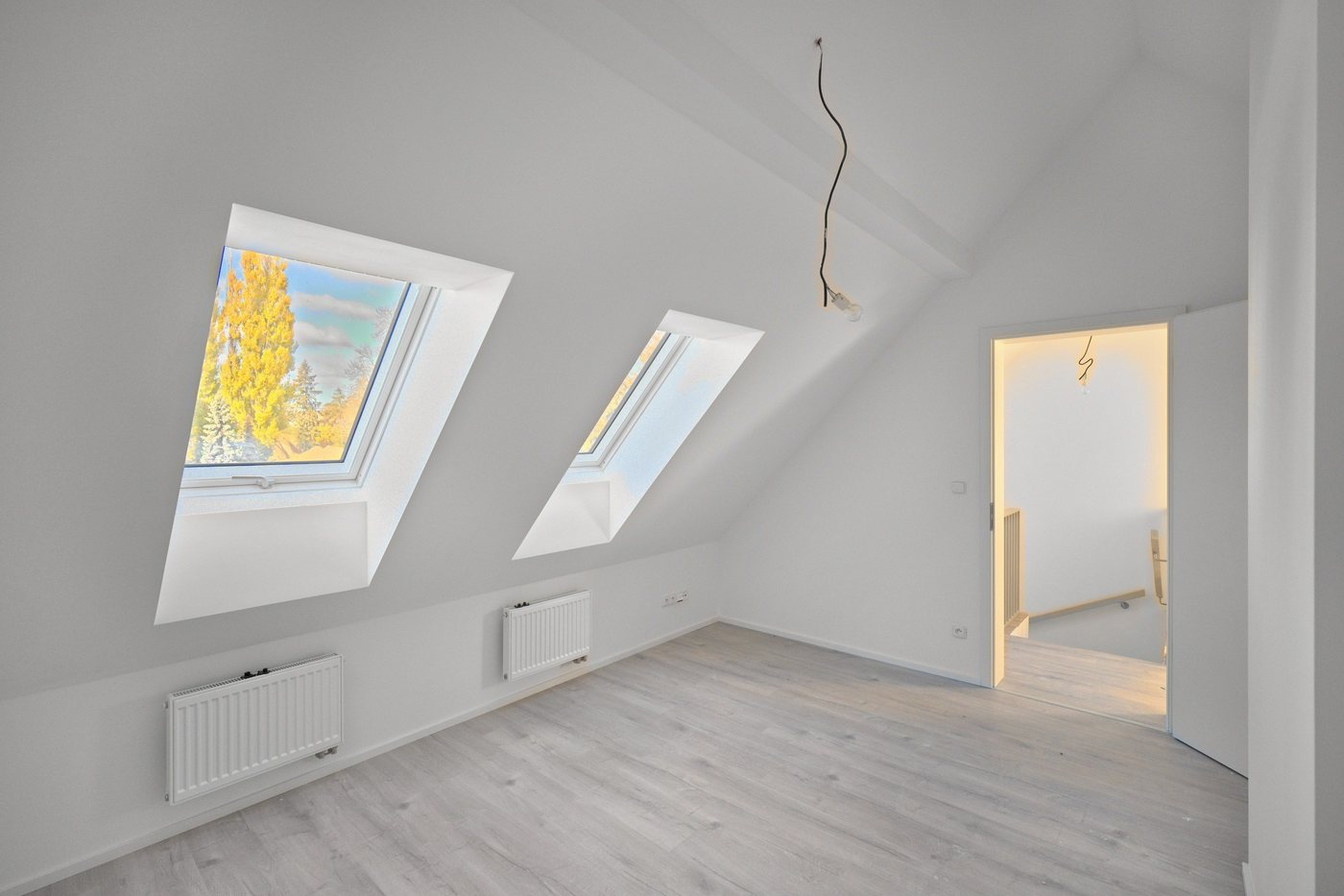
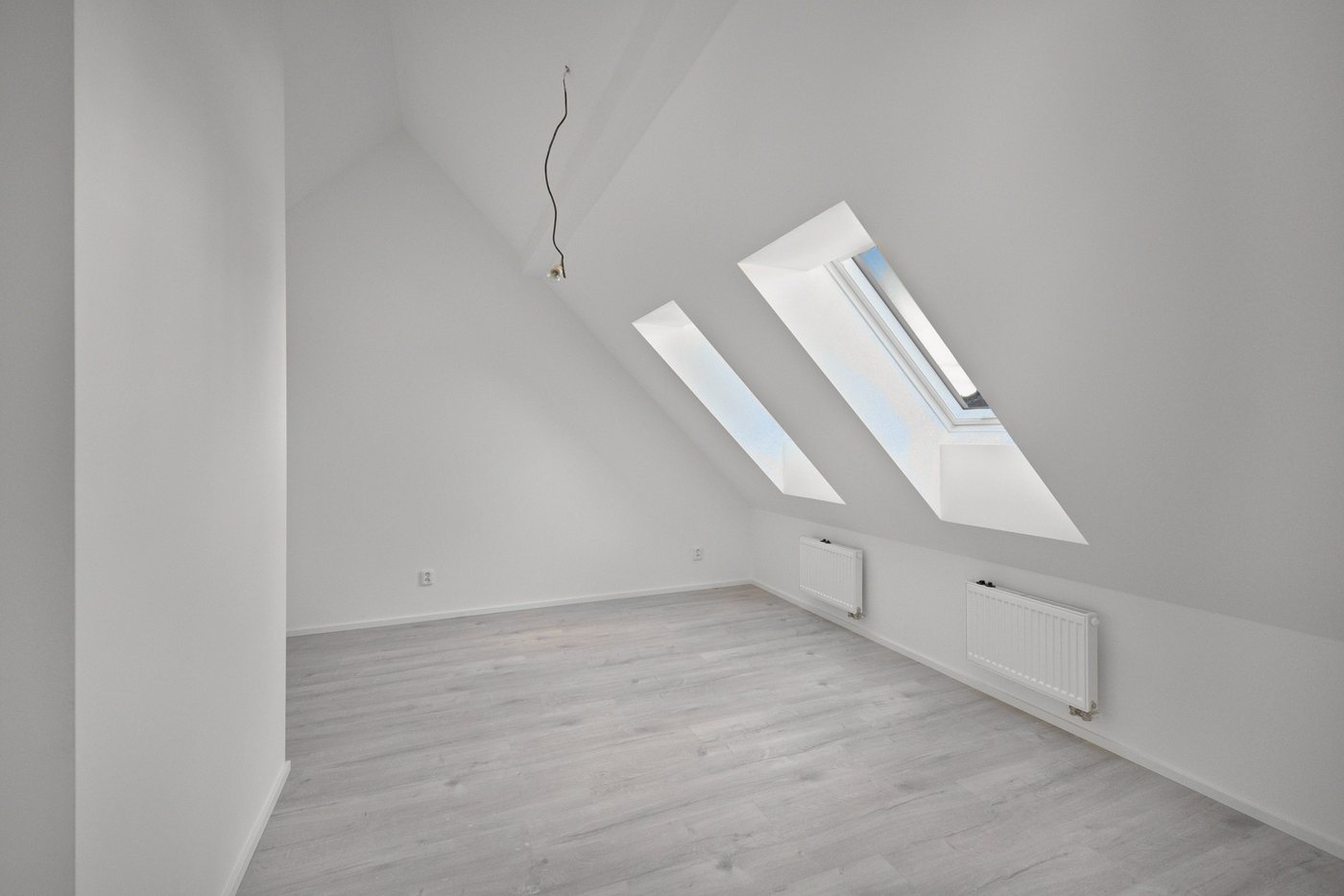
Průběh: pokoj se střešními okny bez žlutých artefaktů (P1182137)

diff --git a/prubeh/index.html b/prubeh/index.html
@@ -254,7 +254,7 @@
 
 <div class="pg">
 <div class="hero" style="height:520px">
-  <img src="img/hero_bb.jpg?v=202611021808" alt="Byty Borovského, Verde Slaný">
+  <img src="img/hero_bb.jpg?v=202611021814" alt="Byty Borovského, Verde Slaný">
   <div class="wrap">
     <div class="lockup"><svg class="glyph" viewBox="0 0 64 64"><g stroke="currentColor" stroke-width="5" stroke-linecap="round" fill="none"><line x1="32" y1="32" x2="17" y2="17"/><line x1="32" y1="32" x2="47" y2="17"/><line x1="32" y1="32" x2="17" y2="47"/><line x1="32" y1="32" x2="47" y2="47"/></g><g fill="none" stroke="currentColor" stroke-width="4.5"><circle cx="17" cy="17" r="8.5"/><circle cx="47" cy="17" r="8.5"/><circle cx="17" cy="47" r="8.5"/><circle cx="47" cy="47" r="8.5"/></g><rect x="25.5" y="25.5" width="13" height="13" rx="3.5" fill="currentColor"/></svg><div class="wstack"><span class="wtop">FRANTIŠEK</span><span class="wbot">DRON</span></div></div>
     <div class="eyebrow">Průběh postprodukce · stav k 2. 11. 2026 · Byty Borovského a Verde Slaný II</div>
@@ -267,19 +267,19 @@
 <section class="sec"><div class="wrap">
   <div class="eyebrow">Na čem pracujeme</div>
   <div class="done">
-    <figure><div class="trio"><img src="img/foto_obyvak.jpg?v=202611021808" alt="Obývák mezonetu"><img src="img/foto_ext.jpg?v=202611021808" alt="Byty Borovského"><img src="img/foto_dron.jpg?v=202611021808" alt="Slaný z dronu"></div>
+    <figure><div class="trio"><img src="img/foto_obyvak.jpg?v=202611021814" alt="Obývák mezonetu"><img src="img/foto_ext.jpg?v=202611021814" alt="Byty Borovského"><img src="img/foto_dron.jpg?v=202611021814" alt="Slaný z dronu"></div>
       <figcaption><span class="stav ceka">Rozpracováno</span><b>Fotky z natáčení</b>93 fotek bytu a okolí, každá složená z pěti expozic, v jednotné barvě. Teď je digitálně čistíme (kabely, záplaty na stropě, staveniště). Fotky z dronu nad stavbou doplníme.</figcaption></figure>
-    <figure><img src="img/so05_shora.jpg?v=202611021808" alt="Model domu SO 05 na mapě" style="aspect-ratio:16/9;object-position:center 60%">
+    <figure><img src="img/so05_shora.jpg?v=202611021814" alt="Model domu SO 05 na mapě" style="aspect-ratio:16/9;object-position:center 60%">
       <figcaption><span class="stav ceka">Rozpracováno</span><b>Dům vyroste: model druhé etapy</b>Dům SO 05 jsme postavili ve 3D podle projektové dokumentace a zasadili do mapy. Obrys sedí na parcelu v katastru. Až zpracujeme záběry z dronu, dům v nich vyroste patro po patru.</figcaption></figure>
-    <figure><img src="img/zakres_etapy.jpg?v=202611021808" alt="Vyznačení dalších etap">
+    <figure><img src="img/zakres_etapy.jpg?v=202611021814" alt="Vyznačení dalších etap">
       <figcaption><span class="stav ceka">Rozpracováno · ke schválení</span><b>Další etapy v jednom záběru</b>Domy, které teprve budou, decentně vyznačíme. Údaje na popiscích potvrď prosím v otázkách.</figcaption></figure>
-    <figure><div class="pair"><img src="img/grafika_titulek.jpg?v=202611021808" alt="Titulek Byty Borovského"><img src="img/grafika_karta.jpg?v=202611021808" alt="Závěrečná karta Verde Slaný"></div>
+    <figure><div class="pair"><img src="img/grafika_titulek.jpg?v=202611021814" alt="Titulek Byty Borovského"><img src="img/grafika_karta.jpg?v=202611021814" alt="Závěrečná karta Verde Slaný"></div>
       <figcaption><span class="stav ceka">Rozpracováno · ke schválení</span><b>Grafika podle vašeho logomanuálu</b>Titulky, popisky místností i závěrečná karta v barvách a skladbě loga Verde Slaný. U Bytů Borovského s lososovým akcentem z jejich loga.</figcaption></figure>
-    <figure><img src="img/slany_vyznaceni.jpg?v=202611021808" alt="Slaný z dronu s vyznačením Verde"><figcaption><span class="stav ceka">Rozpracováno</span>
+    <figure><img src="img/slany_vyznaceni.jpg?v=202611021814" alt="Slaný z dronu s vyznačením Verde"><figcaption><span class="stav ceka">Rozpracováno</span>
   <b>Slaný shora s vyznačením Verde</b>Verde, náměstí, kostel, obchody, autobusové nádraží, Kumpánova zahrada a koupaliště v jednom záběru z dronu.</figcaption></figure>
-    <figure class="wide"><div class="viz5"><div class="vz"><img src="img/viz/VIZ01_obyvak.jpg?v=202611021808" alt="Obývák s kuchyní, vizualizace"><span>Vizualizace</span></div><div class="vz"><img src="img/viz/VIZ02_kuchyn.jpg?v=202611021808" alt="Kuchyňský kout, vizualizace"><span>Vizualizace</span></div><div class="vz"><img src="img/viz/VIZ03_loznice.jpg?v=202611021808" alt="Ložnice, vizualizace"><span>Vizualizace</span></div><div class="vz"><img src="img/viz/VIZ04_detsky.jpg?v=202611021808" alt="Dětský pokoj, vizualizace"><span>Vizualizace</span></div><div class="vz"><img src="img/viz/VIZ05_podkrovi.jpg?v=202611021808" alt="Ložnice pod střechou, vizualizace"><span>Vizualizace</span></div></div>
+    <figure class="wide"><div class="viz5"><div class="vz"><img src="img/viz/VIZ01_obyvak.jpg?v=202611021814" alt="Obývák s kuchyní, vizualizace"><span>Vizualizace</span></div><div class="vz"><img src="img/viz/VIZ02_kuchyn.jpg?v=202611021814" alt="Kuchyňský kout, vizualizace"><span>Vizualizace</span></div><div class="vz"><img src="img/viz/VIZ03_loznice.jpg?v=202611021814" alt="Ložnice, vizualizace"><span>Vizualizace</span></div><div class="vz"><img src="img/viz/VIZ04_detsky.jpg?v=202611021814" alt="Dětský pokoj, vizualizace"><span>Vizualizace</span></div><div class="vz"><img src="img/viz/VIZ05_podkrovi.jpg?v=202611021814" alt="Ložnice pod střechou, vizualizace"><span>Vizualizace</span></div></div>
       <figcaption><span class="stav ceka">Rozpracováno · ke schválení</span><b>Zařízený mezonet: vizualizace</b>Jak může prázdný mezonet vypadat zařízený: obývák s kuchyní, ložnice, dětský pokoj a ložnice pod střechou. Stavba je přesně podle fotek, mění se jen nábytek. Ve filmu i v inzerátu vždy se štítkem „Vizualizace“.</figcaption></figure>
-    <figure><img src="img/grafika_popisek.jpg?v=202611021808" alt="Popisek místnosti v mezonetu">
+    <figure><img src="img/grafika_popisek.jpg?v=202611021814" alt="Popisek místnosti v mezonetu">
       <figcaption><span class="stav ceka">Rozpracováno</span><b>Film o mezonetu</b>Skládáme videoprohlídku mezonetu podle karty bytu. Popisky místností budou jako na obrázku. 3D prohlídka mezonetu je už hotová, najdeš ji níže.</figcaption></figure>
   </div>
 </div></section>
@@ -291,10 +291,10 @@
     <figure class="wide"><div class="m3d" id="m3d"><iframe src="model/index.html" title="3D model domu SO 05" loading="lazy" allow="fullscreen" allowfullscreen></iframe><button class="m3d-x" id="m3dx" type="button" aria-label="Zavřít celou obrazovku">✕ Zavřít</button></div>
       <figcaption><span class="stav ceka">Rozpracováno · ke schválení</span><b>3D model domu SO 05</b>Model domu podle projektové dokumentace. Táhnutím ho otočíš, kolečkem nebo dvěma prsty přiblížíš.
         <span class="btns"><button class="btn" id="m3dfull" type="button">Na celou obrazovku</button></span></figcaption></figure>
-    <figure><img src="img/tour_mezonet.jpg?v=202611021808" alt="Náhled 3D prohlídky mezonetu">
+    <figure><img src="img/tour_mezonet.jpg?v=202611021814" alt="Náhled 3D prohlídky mezonetu">
       <figcaption><span class="stav ceka">Rozpracováno</span><b>Mezonet v Bytech Borovského</b>Zatím není finální – jen pro představu, jak to zhruba bude vypadat. 3D prohlídka mezonetu podle fotek z natáčení a karty bytu. Zařízení je ilustrační vizualizace. Přepínačem Prázdný / Zařízený se přepíná mezi prázdným a zařízeným bytem.
         <span class="btns"><a class="btn" href="prohlidka-mezonet/" target="_blank" rel="noopener">Projít ve 3D</a></span></figcaption></figure>
-    <figure><img src="img/tour_byt.jpg?v=202611021808" alt="Náhled 3D prohlídky typového bytu">
+    <figure><img src="img/tour_byt.jpg?v=202611021814" alt="Náhled 3D prohlídky typového bytu">
       <figcaption><span class="stav ceka">Rozpracováno</span><b>Typový byt 3+kk ve druhé etapě</b>Zatím není finální – jen pro představu, jak to zhruba bude vypadat. Byt B.3.3, nejčastější typ v domě (8 bytů), asi 65 m² podle projektové dokumentace. Dům se staví, model je podle výkresů. Zařízení je ilustrační vizualizace, přepínač Prázdný / Zařízený je stejný.
         <span class="btns"><a class="btn" href="prohlidka-byt/" target="_blank" rel="noopener">Projít ve 3D</a></span></figcaption></figure>
   </div>
@@ -306,9 +306,9 @@
   <div class="eyebrow">Dům v okolí: pár vizualizací</div>
   <p class="lead">Pro představu, jak bude dům druhé etapy vypadat v okolí. Vycházejí z 3D modelu výše, postaveného podle projektové dokumentace a areálové situace z 30. 10.; zeleň a okolí jsou ilustrační. Hlavní ke schválení je 3D model. Ve filmu budou vždy se štítkem „Vizualizace“.</p>
   <div class="done">
-    <figure class="wide"><div class="pp" style="--p:50%"><img src="img/viz_d3.jpg?v=202611021808" alt="Od jihozápadu z dronu, vizualizace"><div class="pp-pred"><img src="img/pred_d3.jpg?v=202611021808" alt="Od jihozápadu z dronu, stav stavby 29. 10."></div><input type="range" min="0" max="100" value="50" aria-label="Posuvník: stav stavby a vizualizace"><div class="pp-h"></div><span class="lab l">Stav 29. 10.</span><span class="lab r">Vizualizace</span></div>
+    <figure class="wide"><div class="pp" style="--p:50%"><img src="img/viz_d3.jpg?v=202611021814" alt="Od jihozápadu z dronu, vizualizace"><div class="pp-pred"><img src="img/pred_d3.jpg?v=202611021814" alt="Od jihozápadu z dronu, stav stavby 29. 10."></div><input type="range" min="0" max="100" value="50" aria-label="Posuvník: stav stavby a vizualizace"><div class="pp-h"></div><span class="lab l">Stav 29. 10.</span><span class="lab r">Vizualizace</span></div>
       <figcaption><span class="stav ceka">Rozpracováno · pro představu</span><b>Od jihozápadu z dronu: dnes a po dokončení</b>Posuvníkem porovnáš stav stavby z 29. 10. s vizualizací ze stejného místa.</figcaption></figure>
-    <figure class="wide"><div class="ms5"><div class="vz zm"><img src="img/multishot/ms_4.jpg?v=202611021808" alt="Od jihovýchodu – svah se schody, vizualizace"><span class="lab">Od jihovýchodu – svah se schody</span></div><div class="vz zm"><img src="img/multishot/ms_3.jpg?v=202611021808" alt="Od západu z trávníku, vizualizace"><span class="lab">Od západu z trávníku</span></div><div class="vz zm"><img src="img/multishot/ms_1.jpg?v=202611021808" alt="Od západu – ulice podél domu, vizualizace"><span class="lab">Od západu – ulice podél domu</span></div></div>
+    <figure class="wide"><div class="ms5"><div class="vz zm"><img src="img/multishot/ms_4.jpg?v=202611021814" alt="Od jihovýchodu – svah se schody, vizualizace"><span class="lab">Od jihovýchodu – svah se schody</span></div><div class="vz zm"><img src="img/multishot/ms_3.jpg?v=202611021814" alt="Od západu z trávníku, vizualizace"><span class="lab">Od západu z trávníku</span></div><div class="vz zm"><img src="img/multishot/ms_1.jpg?v=202611021814" alt="Od západu – ulice podél domu, vizualizace"><span class="lab">Od západu – ulice podél domu</span></div></div>
       <figcaption><span class="stav ceka">Rozpracováno · pro představu</span><b>Další pohledy na SO 05</b>Klikem obrázek zvětšíš.</figcaption></figure>
   </div>
 </div></section>
@@ -319,7 +319,7 @@
   <div class="eyebrow">Fotky z dronu</div>
   <p class="lead">Výběr z fotek z dronu z 29. 10. v jednotných barvách. Celou sadu pošleme po finálních úpravách.</p>
   <div class="done">
-    <figure class="wide"><div class="dron6"><div class="vz zm"><img src="img/dron/dron_1.jpg?v=202611021808" alt="Areál se stavbou druhé etapy"><span class="lab">Areál se stavbou druhé etapy</span></div><div class="vz zm"><img src="img/dron/dron_2.jpg?v=202611021808" alt="Verde I a stavba, v pozadí Slaný"><span class="lab">Verde I a stavba, v pozadí Slaný</span></div><div class="vz zm"><img src="img/dron/dron_3.jpg?v=202611021808" alt="Kumpánova zahrada a město"><span class="lab">Kumpánova zahrada a město</span></div><div class="vz zm"><img src="img/dron/dron_4.jpg?v=202611021808" alt="Kostel a centrum"><span class="lab">Kostel a centrum</span></div><div class="vz zm"><img src="img/dron/dron_5.jpg?v=202611021808" alt="Masarykovo náměstí"><span class="lab">Masarykovo náměstí</span></div><div class="vz zm"><img src="img/dron/dron_6.jpg?v=202611021808" alt="Verde I s topoly"><span class="lab">Verde I s topoly</span></div><div class="vz zm"><img src="img/dron/dron_7.jpg?v=202611021808" alt="Panorama Slaného"><span class="lab">Panorama Slaného</span></div><div class="vz zm"><img src="img/dron/dron_8.jpg?v=202611021808" alt="Kostel, nádraží a vinice"><span class="lab">Kostel, nádraží a vinice</span></div><div class="vz zm"><img src="img/dron/dron_9.jpg?v=202611021808" alt="Verde I a zámek v pozadí"><span class="lab">Verde I a zámek v pozadí</span></div></div>
+    <figure class="wide"><div class="dron6"><div class="vz zm"><img src="img/dron/dron_1.jpg?v=202611021814" alt="Areál se stavbou druhé etapy"><span class="lab">Areál se stavbou druhé etapy</span></div><div class="vz zm"><img src="img/dron/dron_2.jpg?v=202611021814" alt="Verde I a stavba, v pozadí Slaný"><span class="lab">Verde I a stavba, v pozadí Slaný</span></div><div class="vz zm"><img src="img/dron/dron_3.jpg?v=202611021814" alt="Kumpánova zahrada a město"><span class="lab">Kumpánova zahrada a město</span></div><div class="vz zm"><img src="img/dron/dron_4.jpg?v=202611021814" alt="Kostel a centrum"><span class="lab">Kostel a centrum</span></div><div class="vz zm"><img src="img/dron/dron_5.jpg?v=202611021814" alt="Masarykovo náměstí"><span class="lab">Masarykovo náměstí</span></div><div class="vz zm"><img src="img/dron/dron_6.jpg?v=202611021814" alt="Verde I s topoly"><span class="lab">Verde I s topoly</span></div><div class="vz zm"><img src="img/dron/dron_7.jpg?v=202611021814" alt="Panorama Slaného"><span class="lab">Panorama Slaného</span></div><div class="vz zm"><img src="img/dron/dron_8.jpg?v=202611021814" alt="Kostel, nádraží a vinice"><span class="lab">Kostel, nádraží a vinice</span></div><div class="vz zm"><img src="img/dron/dron_9.jpg?v=202611021814" alt="Verde I a zámek v pozadí"><span class="lab">Verde I a zámek v pozadí</span></div></div>
       <figcaption><span class="stav ceka">Rozpracováno · ke schválení</span><b>Areál, Verde I a Slaný z dronu</b>Devět ze 74 fotek z dronu. Klikem obrázek zvětšíš.</figcaption></figure>
   </div>
 </div></section>
@@ -328,7 +328,7 @@
   <div class="eyebrow">Fotky z natáčení: byt a okolí</div>
   <p class="lead">Výběr z fotek z 29. 10. – mezonet v Bytech Borovského a domy kolem, ze země i z dronu. Fotky bytu jsou složené z pěti expozic. Digitální úklid (kabely, záplaty na stropě, staveniště) ještě probíhá.</p>
   <div class="done">
-    <figure class="wide"><div class="foto8"><div class="vz zm"><img src="img/foto/fotky_byty_1.jpg?v=202611021808" alt="Obývák s kamny"><span class="lab">Obývák s kamny</span></div><div class="vz zm"><img src="img/foto/fotky_byty_2.jpg?v=202611021808" alt="Pokoj se střešními okny"><span class="lab">Pokoj se střešními okny</span></div><div class="vz zm"><img src="img/foto/fotky_byty_3.jpg?v=202611021808" alt="Pokoj s oknem do zeleně"><span class="lab">Pokoj s oknem do zeleně</span></div><div class="vz zm"><img src="img/foto/fotky_byty_4.jpg?v=202611021808" alt="Koupelna s vanou"><span class="lab">Koupelna s vanou</span></div><div class="vz zm"><img src="img/foto/fotky_byty_5.jpg?v=202611021808" alt="Terasa s výhledem"><span class="lab">Terasa s výhledem</span></div><div class="vz zm"><img src="img/foto/fotky_zeme_1.jpg?v=202611021808" alt="Štít a stromy"><span class="lab">Štít a stromy</span></div><div class="vz zm"><img src="img/foto/fotky_zeme_2.jpg?v=202611021808" alt="Od ulice"><span class="lab">Od ulice</span></div><div class="vz zm"><img src="img/foto/fotky_zeme_3.jpg?v=202611021808" alt="Z dronu"><span class="lab">Z dronu</span></div><div class="vz zm"><img src="img/foto/fotky_zeme_4.jpg?v=202611021808" alt="Z dronu, v zeleni"><span class="lab">Z dronu, v zeleni</span></div><div class="vz zm"><img src="img/foto/fotky_zeme_5.jpg?v=202611021808" alt="Z dronu, za nimi Slaný"><span class="lab">Z dronu, za nimi Slaný</span></div></div>
+    <figure class="wide"><div class="foto8"><div class="vz zm"><img src="img/foto/fotky_byty_1.jpg?v=202611021814" alt="Obývák s kamny"><span class="lab">Obývák s kamny</span></div><div class="vz zm"><img src="img/foto/fotky_byty_2.jpg?v=202611021814" alt="Pokoj se střešními okny"><span class="lab">Pokoj se střešními okny</span></div><div class="vz zm"><img src="img/foto/fotky_byty_3.jpg?v=202611021814" alt="Pokoj s oknem do zeleně"><span class="lab">Pokoj s oknem do zeleně</span></div><div class="vz zm"><img src="img/foto/fotky_byty_4.jpg?v=202611021814" alt="Koupelna s vanou"><span class="lab">Koupelna s vanou</span></div><div class="vz zm"><img src="img/foto/fotky_byty_5.jpg?v=202611021814" alt="Terasa s výhledem"><span class="lab">Terasa s výhledem</span></div><div class="vz zm"><img src="img/foto/fotky_zeme_1.jpg?v=202611021814" alt="Štít a stromy"><span class="lab">Štít a stromy</span></div><div class="vz zm"><img src="img/foto/fotky_zeme_2.jpg?v=202611021814" alt="Od ulice"><span class="lab">Od ulice</span></div><div class="vz zm"><img src="img/foto/fotky_zeme_3.jpg?v=202611021814" alt="Z dronu"><span class="lab">Z dronu</span></div><div class="vz zm"><img src="img/foto/fotky_zeme_4.jpg?v=202611021814" alt="Z dronu, v zeleni"><span class="lab">Z dronu, v zeleni</span></div><div class="vz zm"><img src="img/foto/fotky_zeme_5.jpg?v=202611021814" alt="Z dronu, za nimi Slaný"><span class="lab">Z dronu, za nimi Slaný</span></div></div>
       <figcaption><span class="stav ceka">Rozpracováno · ke schválení</span><b>Mezonet a Byty Borovského</b>Nahoře byt, dole domy ze země a z dronu. Klikem obrázek zvětšíš.</figcaption></figure>
   </div>
 </div></section>
@@ -337,7 +337,7 @@
   <div class="eyebrow">Potřebujeme od tebe</div>
   <p class="lead">Vyplň, co víš, a klikni na Odeslat. Odeslat můžeš i víckrát, odeslané odpovědi uvidíš dole.</p>
   <form class="form" id="fm" onsubmit="return false">
-    <div class="q need" data-q="povoleni" data-label="Další etapy: stavební povolení a termíny"><h4>Další etapy: stavební povolení a termíny</h4><p class="h">Na popisky SO 01 (dům do U), SO 03 a SO 04 bychom rádi napsali „stavební povolení vydáno“. Jak to je? A chcete tam i termíny nebo jiné názvy (třeba 3. / 4. / 5. etapa)?</p><div class="opts"><label><input type="radio" name="povoleni" value="Vydané a pravomocné u všech tří"><span>Vydané a pravomocné u všech tří</span></label><label><input type="radio" name="povoleni" value="Vydané, zatím ne pravomocné"><span>Vydané, zatím ne pravomocné</span></label><label><input type="radio" name="povoleni" value="U některých ještě ne"><span>U některých ještě ne</span></label><label><input type="radio" name="povoleni" value="Zatím ne"><span>Zatím ne</span></label></div><textarea id="n_povoleni" data-note="povoleni" placeholder="Termíny, názvy, upřesnění"></textarea></div><div class="q" data-q="udaje" data-label="Údaje ve filmech"><h4>Údaje ve filmech</h4><p class="h">Druhá etapa: 48 bytů, kolaudace 2Q 2028. Byty Borovského: zkolaudované, předání koncem roku. Sedí to a smíme to tak uvést?</p><div class="opts"><label><input type="radio" name="udaje" value="Sedí"><span>Sedí</span></label><label><input type="radio" name="udaje" value="Upravit"><span>Upravit</span></label></div><textarea id="n_udaje" data-note="udaje" placeholder="Co upravit"></textarea></div><div class="q" data-q="vysky" data-label="Světlá výška v mezonetu"><h4>Světlá výška v mezonetu</h4><p class="h">Pro 3D prohlídku: jaká je světlá výška dole (chodba, ložnice) a v jaké výšce je podlaha horního patra? Z fotek a karty bytu nám vychází dole 2,58–2,69 m a podlaha horního patra 2,95 m.</p><div class="opts"><label><input type="radio" name="vysky" value="Sedí to"><span>Sedí to</span></label><label><input type="radio" name="vysky" value="Pošlu řez e-mailem"><span>Pošlu řez e-mailem</span></label><label><input type="radio" name="vysky" value="Napíšu sem"><span>Napíšu sem</span></label></div><textarea id="n_vysky" data-note="vysky" placeholder="Např. dole 2,60 m, podlaha horního patra 2,95 m"></textarea></div><div class="q" data-q="hudba" data-label="Hudba k filmům"><h4>Hudba k filmům</h4><p class="h">Tři ukázky (30 s), všechny instrumentální. Vyber, která se ti k filmům líbí nejvíc.</p><div class="hud"><label class="opts"><input type="radio" name="hudba" value="A"><span>A</span></label><span class="hn">moderní, klidná, prémiová</span><audio controls preload="none" src="hudba/A.mp3?v=202611021808"></audio></div><div class="hud"><label class="opts"><input type="radio" name="hudba" value="B"><span>B</span></label><span class="hn">klavír s výraznějším basem</span><audio controls preload="none" src="hudba/B.mp3?v=202611021808"></audio></div><div class="hud"><label class="opts"><input type="radio" name="hudba" value="C"><span>C</span></label><span class="hn">uvolněná, jazzová</span><audio controls preload="none" src="hudba/C.mp3?v=202611021808"></audio></div><textarea id="n_hudba" data-note="hudba" placeholder="Poznámka k hudbě (nepovinné)"></textarea></div><div class="q need" data-q="kontakt" data-label="Kontakt na závěrečnou kartu"><h4>Kontakt na závěrečnou kartu</h4><p class="h">Web, telefon a jméno na konec filmů.</p><textarea id="n_kontakt" data-note="kontakt" placeholder="Např. verdeslany.cz · +420 … · jméno"></textarea></div><div class="q" data-q="styl" data-label="Styl zařízení mezonetu"><h4>Styl zařízení mezonetu</h4><p class="h">Pět vizualizací nahoře: skandinávský styl, světlý dub, len a olivové doplňky. Sedí to na kupce Bytů Borovského?</p><div class="opts"><label><input type="radio" name="styl" value="Schvaluji"><span>Schvaluji</span></label><label><input type="radio" name="styl" value="Chci jiný styl"><span>Chci jiný styl</span></label></div><textarea id="n_styl" data-note="styl" placeholder="Co změnit (styl, barvy, nábytek)"></textarea></div><div class="q" data-q="byt2" data-label="Sedí výběr bytu?"><h4>Sedí výběr bytu?</h4><p class="h">Prohlídka typového bytu už je hotová (výše): byt B.3.3, 3+kk, asi 65 m² podle projektové dokumentace, nejčastější typ domu (8 bytů). Sedí tenhle byt, nebo máme udělat jiný?</p><div class="opts"><label><input type="radio" name="byt2" value="Sedí"><span>Sedí</span></label><label><input type="radio" name="byt2" value="Chci jiný byt, napíšu"><span>Chci jiný byt, napíšu</span></label></div><textarea id="n_byt2" data-note="byt2" placeholder="Číslo bytu nebo poznámka"></textarea></div><div class="q" data-q="fasada" data-label="Bílá fasáda: stejná jako u první etapy?"><h4>Bílá fasáda: stejná jako u první etapy?</h4><p class="h">Podle projektové dokumentace má druhá etapa bílou omítku Baumit SilikonTop 0019 a šedou 0436. Má být bílá stejná jako u hotových domů první etapy, aby na fotkách a ve filmu působily stejně?</p><div class="opts"><label><input type="radio" name="fasada" value="Ano, stejná bílá"><span>Ano, stejná bílá</span></label><label><input type="radio" name="fasada" value="Ne, je jiná"><span>Ne, je jiná</span></label><label><input type="radio" name="fasada" value="Nevím, zjistím"><span>Nevím, zjistím</span></label></div><textarea id="n_fasada" data-note="fasada" placeholder="Upřesnění (nepovinné)"></textarea></div><div class="q" data-q="model3d" data-label="Schválení: 3D model domu"><h4>Schválení: 3D model domu</h4><p class="h">3D model domu SO 05 a dvě 3D prohlídky (výše) – to je hlavní, co od tebe potřebujeme schválit. Vizualizace pod ním z modelu vycházejí a jsou pro představu. Schvaluješ, nebo napiš, co upravit.</p><div class="opts"><label><input type="radio" name="model3d" value="Schvaluji"><span>Schvaluji</span></label><label><input type="radio" name="model3d" value="Chci upravit"><span>Chci upravit</span></label></div><textarea id="n_model3d" data-note="model3d" placeholder="Co upravit"></textarea></div><div class="q" data-q="schvaleni" data-label="Schválení: vyznačení Slaného a další etapy"><h4>Schválení: vyznačení Slaného a další etapy</h4><p class="h">Obrázky nahoře „Slaný shora s vyznačením Verde“ a „Další etapy v jednom záběru“. Schvaluješ, nebo napiš, co upravit.</p><div class="opts"><label><input type="radio" name="schvaleni" value="Schvaluji"><span>Schvaluji</span></label><label><input type="radio" name="schvaleni" value="Chci upravit"><span>Chci upravit</span></label></div><textarea id="n_schvaleni" data-note="schvaleni" placeholder="Co upravit"></textarea></div><div class="q" data-q="titulky" data-label="Schválení: grafika titulků"><h4>Schválení: grafika titulků</h4><p class="h">Titulky, popisky místností a závěrečná karta podle logomanuálu Verde Slaný (obrázky nahoře „Grafika podle vašeho logomanuálu“ a „Film o mezonetu“). Schvaluješ, nebo napiš, co upravit.</p><div class="opts"><label><input type="radio" name="titulky" value="Schvaluji"><span>Schvaluji</span></label><label><input type="radio" name="titulky" value="Chci upravit"><span>Chci upravit</span></label></div><textarea id="n_titulky" data-note="titulky" placeholder="Co upravit"></textarea></div>
+    <div class="q need" data-q="povoleni" data-label="Další etapy: stavební povolení a termíny"><h4>Další etapy: stavební povolení a termíny</h4><p class="h">Na popisky SO 01 (dům do U), SO 03 a SO 04 bychom rádi napsali „stavební povolení vydáno“. Jak to je? A chcete tam i termíny nebo jiné názvy (třeba 3. / 4. / 5. etapa)?</p><div class="opts"><label><input type="radio" name="povoleni" value="Vydané a pravomocné u všech tří"><span>Vydané a pravomocné u všech tří</span></label><label><input type="radio" name="povoleni" value="Vydané, zatím ne pravomocné"><span>Vydané, zatím ne pravomocné</span></label><label><input type="radio" name="povoleni" value="U některých ještě ne"><span>U některých ještě ne</span></label><label><input type="radio" name="povoleni" value="Zatím ne"><span>Zatím ne</span></label></div><textarea id="n_povoleni" data-note="povoleni" placeholder="Termíny, názvy, upřesnění"></textarea></div><div class="q" data-q="udaje" data-label="Údaje ve filmech"><h4>Údaje ve filmech</h4><p class="h">Druhá etapa: 48 bytů, kolaudace 2Q 2028. Byty Borovského: zkolaudované, předání koncem roku. Sedí to a smíme to tak uvést?</p><div class="opts"><label><input type="radio" name="udaje" value="Sedí"><span>Sedí</span></label><label><input type="radio" name="udaje" value="Upravit"><span>Upravit</span></label></div><textarea id="n_udaje" data-note="udaje" placeholder="Co upravit"></textarea></div><div class="q" data-q="vysky" data-label="Světlá výška v mezonetu"><h4>Světlá výška v mezonetu</h4><p class="h">Pro 3D prohlídku: jaká je světlá výška dole (chodba, ložnice) a v jaké výšce je podlaha horního patra? Z fotek a karty bytu nám vychází dole 2,58–2,69 m a podlaha horního patra 2,95 m.</p><div class="opts"><label><input type="radio" name="vysky" value="Sedí to"><span>Sedí to</span></label><label><input type="radio" name="vysky" value="Pošlu řez e-mailem"><span>Pošlu řez e-mailem</span></label><label><input type="radio" name="vysky" value="Napíšu sem"><span>Napíšu sem</span></label></div><textarea id="n_vysky" data-note="vysky" placeholder="Např. dole 2,60 m, podlaha horního patra 2,95 m"></textarea></div><div class="q" data-q="hudba" data-label="Hudba k filmům"><h4>Hudba k filmům</h4><p class="h">Tři ukázky (30 s), všechny instrumentální. Vyber, která se ti k filmům líbí nejvíc.</p><div class="hud"><label class="opts"><input type="radio" name="hudba" value="A"><span>A</span></label><span class="hn">moderní, klidná, prémiová</span><audio controls preload="none" src="hudba/A.mp3?v=202611021814"></audio></div><div class="hud"><label class="opts"><input type="radio" name="hudba" value="B"><span>B</span></label><span class="hn">klavír s výraznějším basem</span><audio controls preload="none" src="hudba/B.mp3?v=202611021814"></audio></div><div class="hud"><label class="opts"><input type="radio" name="hudba" value="C"><span>C</span></label><span class="hn">uvolněná, jazzová</span><audio controls preload="none" src="hudba/C.mp3?v=202611021814"></audio></div><textarea id="n_hudba" data-note="hudba" placeholder="Poznámka k hudbě (nepovinné)"></textarea></div><div class="q need" data-q="kontakt" data-label="Kontakt na závěrečnou kartu"><h4>Kontakt na závěrečnou kartu</h4><p class="h">Web, telefon a jméno na konec filmů.</p><textarea id="n_kontakt" data-note="kontakt" placeholder="Např. verdeslany.cz · +420 … · jméno"></textarea></div><div class="q" data-q="styl" data-label="Styl zařízení mezonetu"><h4>Styl zařízení mezonetu</h4><p class="h">Pět vizualizací nahoře: skandinávský styl, světlý dub, len a olivové doplňky. Sedí to na kupce Bytů Borovského?</p><div class="opts"><label><input type="radio" name="styl" value="Schvaluji"><span>Schvaluji</span></label><label><input type="radio" name="styl" value="Chci jiný styl"><span>Chci jiný styl</span></label></div><textarea id="n_styl" data-note="styl" placeholder="Co změnit (styl, barvy, nábytek)"></textarea></div><div class="q" data-q="byt2" data-label="Sedí výběr bytu?"><h4>Sedí výběr bytu?</h4><p class="h">Prohlídka typového bytu už je hotová (výše): byt B.3.3, 3+kk, asi 65 m² podle projektové dokumentace, nejčastější typ domu (8 bytů). Sedí tenhle byt, nebo máme udělat jiný?</p><div class="opts"><label><input type="radio" name="byt2" value="Sedí"><span>Sedí</span></label><label><input type="radio" name="byt2" value="Chci jiný byt, napíšu"><span>Chci jiný byt, napíšu</span></label></div><textarea id="n_byt2" data-note="byt2" placeholder="Číslo bytu nebo poznámka"></textarea></div><div class="q" data-q="fasada" data-label="Bílá fasáda: stejná jako u první etapy?"><h4>Bílá fasáda: stejná jako u první etapy?</h4><p class="h">Podle projektové dokumentace má druhá etapa bílou omítku Baumit SilikonTop 0019 a šedou 0436. Má být bílá stejná jako u hotových domů první etapy, aby na fotkách a ve filmu působily stejně?</p><div class="opts"><label><input type="radio" name="fasada" value="Ano, stejná bílá"><span>Ano, stejná bílá</span></label><label><input type="radio" name="fasada" value="Ne, je jiná"><span>Ne, je jiná</span></label><label><input type="radio" name="fasada" value="Nevím, zjistím"><span>Nevím, zjistím</span></label></div><textarea id="n_fasada" data-note="fasada" placeholder="Upřesnění (nepovinné)"></textarea></div><div class="q" data-q="model3d" data-label="Schválení: 3D model domu"><h4>Schválení: 3D model domu</h4><p class="h">3D model domu SO 05 a dvě 3D prohlídky (výše) – to je hlavní, co od tebe potřebujeme schválit. Vizualizace pod ním z modelu vycházejí a jsou pro představu. Schvaluješ, nebo napiš, co upravit.</p><div class="opts"><label><input type="radio" name="model3d" value="Schvaluji"><span>Schvaluji</span></label><label><input type="radio" name="model3d" value="Chci upravit"><span>Chci upravit</span></label></div><textarea id="n_model3d" data-note="model3d" placeholder="Co upravit"></textarea></div><div class="q" data-q="schvaleni" data-label="Schválení: vyznačení Slaného a další etapy"><h4>Schválení: vyznačení Slaného a další etapy</h4><p class="h">Obrázky nahoře „Slaný shora s vyznačením Verde“ a „Další etapy v jednom záběru“. Schvaluješ, nebo napiš, co upravit.</p><div class="opts"><label><input type="radio" name="schvaleni" value="Schvaluji"><span>Schvaluji</span></label><label><input type="radio" name="schvaleni" value="Chci upravit"><span>Chci upravit</span></label></div><textarea id="n_schvaleni" data-note="schvaleni" placeholder="Co upravit"></textarea></div><div class="q" data-q="titulky" data-label="Schválení: grafika titulků"><h4>Schválení: grafika titulků</h4><p class="h">Titulky, popisky místností a závěrečná karta podle logomanuálu Verde Slaný (obrázky nahoře „Grafika podle vašeho logomanuálu“ a „Film o mezonetu“). Schvaluješ, nebo napiš, co upravit.</p><div class="opts"><label><input type="radio" name="titulky" value="Schvaluji"><span>Schvaluji</span></label><label><input type="radio" name="titulky" value="Chci upravit"><span>Chci upravit</span></label></div><textarea id="n_titulky" data-note="titulky" placeholder="Co upravit"></textarea></div>
     <div class="q" data-q="jmeno" data-label="Od"><input type="text" id="n_jmeno" data-note="jmeno" placeholder="Jméno (nepovinné)" style="margin-top:0"></div>
     <div class="sendrow"><button class="send" id="send" type="button">Odeslat odpovědi</button><span id="st"></span></div>
   </form>
